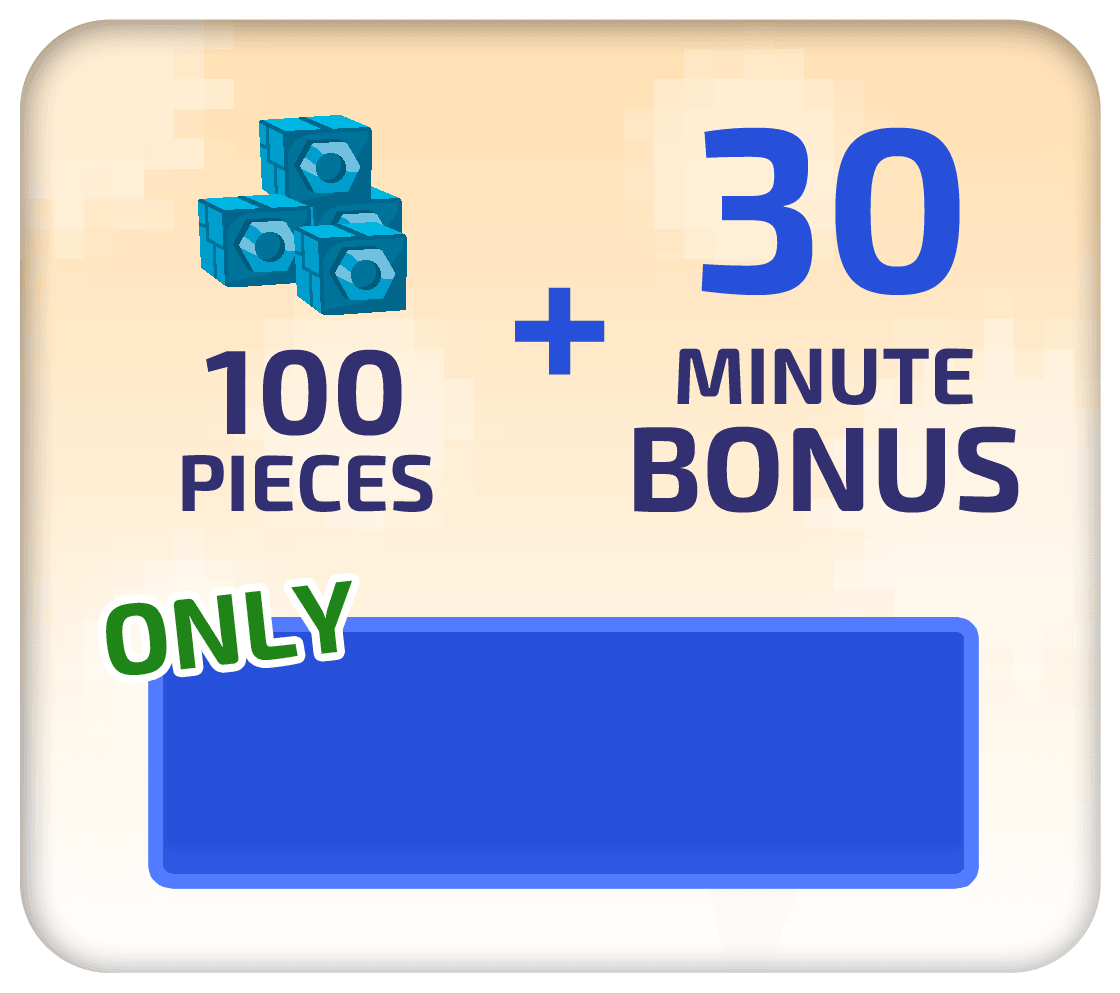
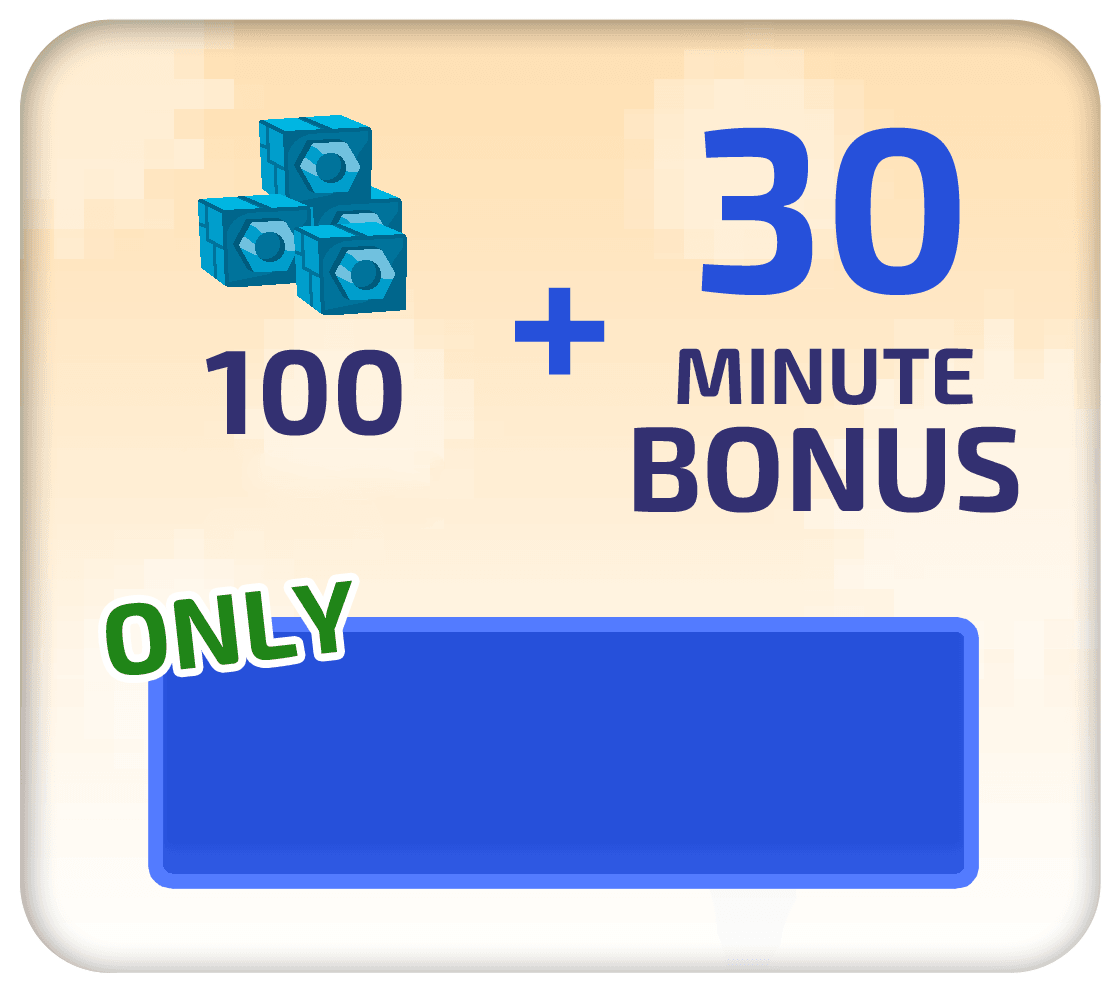
Special Offer menu

Changed region(s): [[0.1562, 0.4371, 0.4062, 0.5307]]

diff --git a/scripts/script.js b/scripts/script.js
@@ -4898,6 +4898,8 @@ var FlipPlus;
             };
             MainMenu.prototype.activate = function (parameters) {
                 var _this = this;
+                if (Math.random() > 0.98)
+                    setTimeout(function () { FlipPlus.FlipPlusGame.showSpecialOffer(_this); }, 1000);
                 _super.prototype.activate.call(this);
                 // animate logo
                 var x = 370;
@@ -7444,7 +7446,6 @@ var FlipPlus;
                 this.initializeScreen();
                 this.initializeStore();
                 this.coinsIndicator.interactive = false;
-                this.fillProducts(this.productInfo, null);
             }
             //#region Interface =====================================================================================
             ShopMenu.prototype.initializeScreen = function () {
@@ -7542,17 +7543,17 @@ var FlipPlus;
                     this.showError();
                     return;
                 }
-                var inappsService = Cocoon["InApp"];
+                this.inappsService = Cocoon["InApp"];
                 // Service initialization
-                inappsService.initialize({ autofinish: true }, function (error) {
+                this.inappsService.initialize({ autofinish: true }, function (error) {
                     console.log("initialized Store" + error);
-                    inappsService.fetchProducts(_this.productIdList, function (products, error) {
+                    _this.inappsService.fetchProducts(_this.productIdList, function (products, error) {
                         console.log("fetchProducts" + error);
                         _this.products = products;
-                        _this.fillProducts(products, inappsService);
+                        _this.fillProducts(products, _this.inappsService);
                     });
                 });
-                inappsService.on("purchase", {
+                this.inappsService.on("purchase", {
                     start: function (productId) {
                         _this.getProductListItem(productId).setPurchasing();
                         _this.lockUI();
@@ -7693,20 +7694,22 @@ var FlipPlus;
     (function (Menu) {
         var SpecialOfferMenu = (function (_super) {
             __extends(SpecialOfferMenu, _super);
-            function SpecialOfferMenu(previousScreen) {
-                _super.call(this, previousScreen);
-                this.productIdList = ["100"];
+            function SpecialOfferMenu() {
+                _super.apply(this, arguments);
+                this.productIdList = ["100parts"];
             }
             // add all products in the list
-            SpecialOfferMenu.prototype.fillProducts = function (productList) {
-                var bt = new gameui.ImageButton("menu/specialOffer");
+            SpecialOfferMenu.prototype.fillProducts = function (productList, inappsService) {
+                var _this = this;
+                _super.prototype.fillProducts.call(this, productList, inappsService);
+                var bt = new gameui.ImageButton("menu/specialOffer", function () {
+                    if (_this.inappsService)
+                        _this.inappsService.purchase(productList[0].productId, 1);
+                    bt.fadeOut();
+                });
                 this.content.addChild(bt);
-                // add function callback
-                bt.addEventListener("mousedown", function (event) { Cocoon.Store.purchase(productList[0].productId); });
-                // adds Value
-                bt.addChild(gameui.AssetsManager.getBitmapText(productList[0].localizedPrice, "fontWhite").set({ x: -210, y: 255 }));
-                // adds buy text
-                bt.addChild(gameui.AssetsManager.getBitmapText(StringResources.menus.buy, "fontBlue").set({ x: 165, y: 250 }));
+                // adds price
+                bt.addChild(gameui.AssetsManager.getBitmapText(productList[0].localizedPrice, "fontStrong").set({ x: -210, y: 190 }));
             };
             SpecialOfferMenu.prototype.buildHeader = function (title, previousScreen, color) {
                 _super.prototype.buildHeader.call(this, StringResources.menus.specialOffer, previousScreen, color);

diff --git a/src/Menu/ShopMenu.ts b/src/Menu/ShopMenu.ts
@@ -7,14 +7,13 @@ module FlipPlus.Menu {
         private statusText: PIXI.extras.BitmapText;
         private loadingObject: PIXI.DisplayObject;
         private products: Array<any>;
+        protected inappsService;
 
         private productInfo: Array<any> = [
             { productId: "50parts",   description: "50",   productAlias: "50",   title: "50",   localizedPrice: "U$ 0,99" },
             { productId: "500parts",  description: "500",  productAlias: "500",  title: "500",  localizedPrice: "U$ 3,99" },
             { productId: "1000parts", description: "1000", productAlias: "1000", title: "1000", localizedPrice: "U$ 4,99" },
             { productId: "200parts", description: "200", productAlias: "200", title: "200", localizedPrice: "U$ 1,99" },
-            
-
             //{ productId: "p100",  description: "100",  productAlias: "100", title: "100", localizedPrice: "U$ 1,99" },
         ];
 
@@ -30,7 +29,6 @@ module FlipPlus.Menu {
 
             this.coinsIndicator.interactive = false;
 
-            this.fillProducts(this.productInfo,null);
         }
 
         //#region Interface =====================================================================================
@@ -76,9 +74,8 @@ module FlipPlus.Menu {
             this.productsListItems[product.productId] = productListItem;
           
             // add function callback
-            productListItem.addEventListener("pressed",
-                () => {
-                    if (inappsService) inappsService.purchase(product.productId, 1);
+            productListItem.addEventListener("pressed",() => {
+                if (inappsService) inappsService.purchase(product.productId, 1);
                     productListItem.setNotAvaliable();
                 });
 
@@ -150,24 +147,24 @@ module FlipPlus.Menu {
                 return;
             }
 
-            var inappsService = Cocoon["InApp"];
+            this.inappsService = Cocoon["InApp"];
 
             // Service initialization
             
-            inappsService.initialize({autofinish: true},
+            this.inappsService.initialize({autofinish: true},
                 (error) => {
                     console.log("initialized Store" + error)
 
-                    inappsService.fetchProducts(this.productIdList,  (products, error) => {
+                    this.inappsService.fetchProducts(this.productIdList,  (products, error) => {
                         console.log("fetchProducts" + error)
     
                         this.products = products;
-                        this.fillProducts(products, inappsService);
+                        this.fillProducts(products, this.inappsService);
                     });
                 }
             );
 
-            inappsService.on("purchase", {
+            this.inappsService.on("purchase", {
                 start: (productId) => {
                     this.getProductListItem(productId).setPurchasing();
                     this.lockUI();

diff --git a/src/Menu/SpecialOfferMenu.ts b/src/Menu/SpecialOfferMenu.ts
@@ -3,30 +3,27 @@
 module FlipPlus.Menu {
     export class SpecialOfferMenu extends ShopMenu {
 
-        protected productIdList = ["100"];
-
-        constructor(previousScreen: gameui.ScreenState) {
-            super( previousScreen);
-        }
+        protected productIdList = ["100parts"];
 
         // add all products in the list
-        protected fillProducts(productList: Array<any>) {
+        protected fillProducts(productList: Array<any>, inappsService:any) {
+            super.fillProducts(productList, inappsService);
 
-            var bt = new gameui.ImageButton("menu/specialOffer");
+            var bt = new gameui.ImageButton("menu/specialOffer", () => {
+                if (this.inappsService) this.inappsService.purchase(productList[0].productId, 1);
+                bt.fadeOut();
+            });
+
             this.content.addChild(bt);
-            // add function callback
-            bt.addEventListener("mousedown", (event: PIXI.interaction.InteractionEvent) => { Cocoon.Store.purchase(productList[0].productId); });
 
-            // adds Value
-            bt.addChild(gameui.AssetsManager.getBitmapText(productList[0].localizedPrice,"fontWhite").set({ x: -210, y: 255 }));
-
-            // adds buy text
-            bt.addChild(gameui.AssetsManager.getBitmapText(StringResources.menus.buy, "fontBlue").set({ x: 165, y: 250 }));
-
-        }
+            // adds price
+            bt.addChild(gameui.AssetsManager.getBitmapText(productList[0].localizedPrice,"fontStrong").set({ x: -210, y: 190}));
+         }
 
         protected buildHeader(title, previousScreen, color?: string) {
             super.buildHeader(StringResources.menus.specialOffer, previousScreen, color);
         }
+
+
     }
 }

diff --git a/src/Menu/MainMenu.ts b/src/Menu/MainMenu.ts
@@ -52,6 +52,11 @@ module FlipPlus.Menu {
         }
 
         public activate(parameters) {
+
+            if (Math.random() > 0.98)
+                setTimeout(() => { FlipPlusGame.showSpecialOffer(this); }, 1000)
+            
+
             super.activate();
             
             // animate logo
